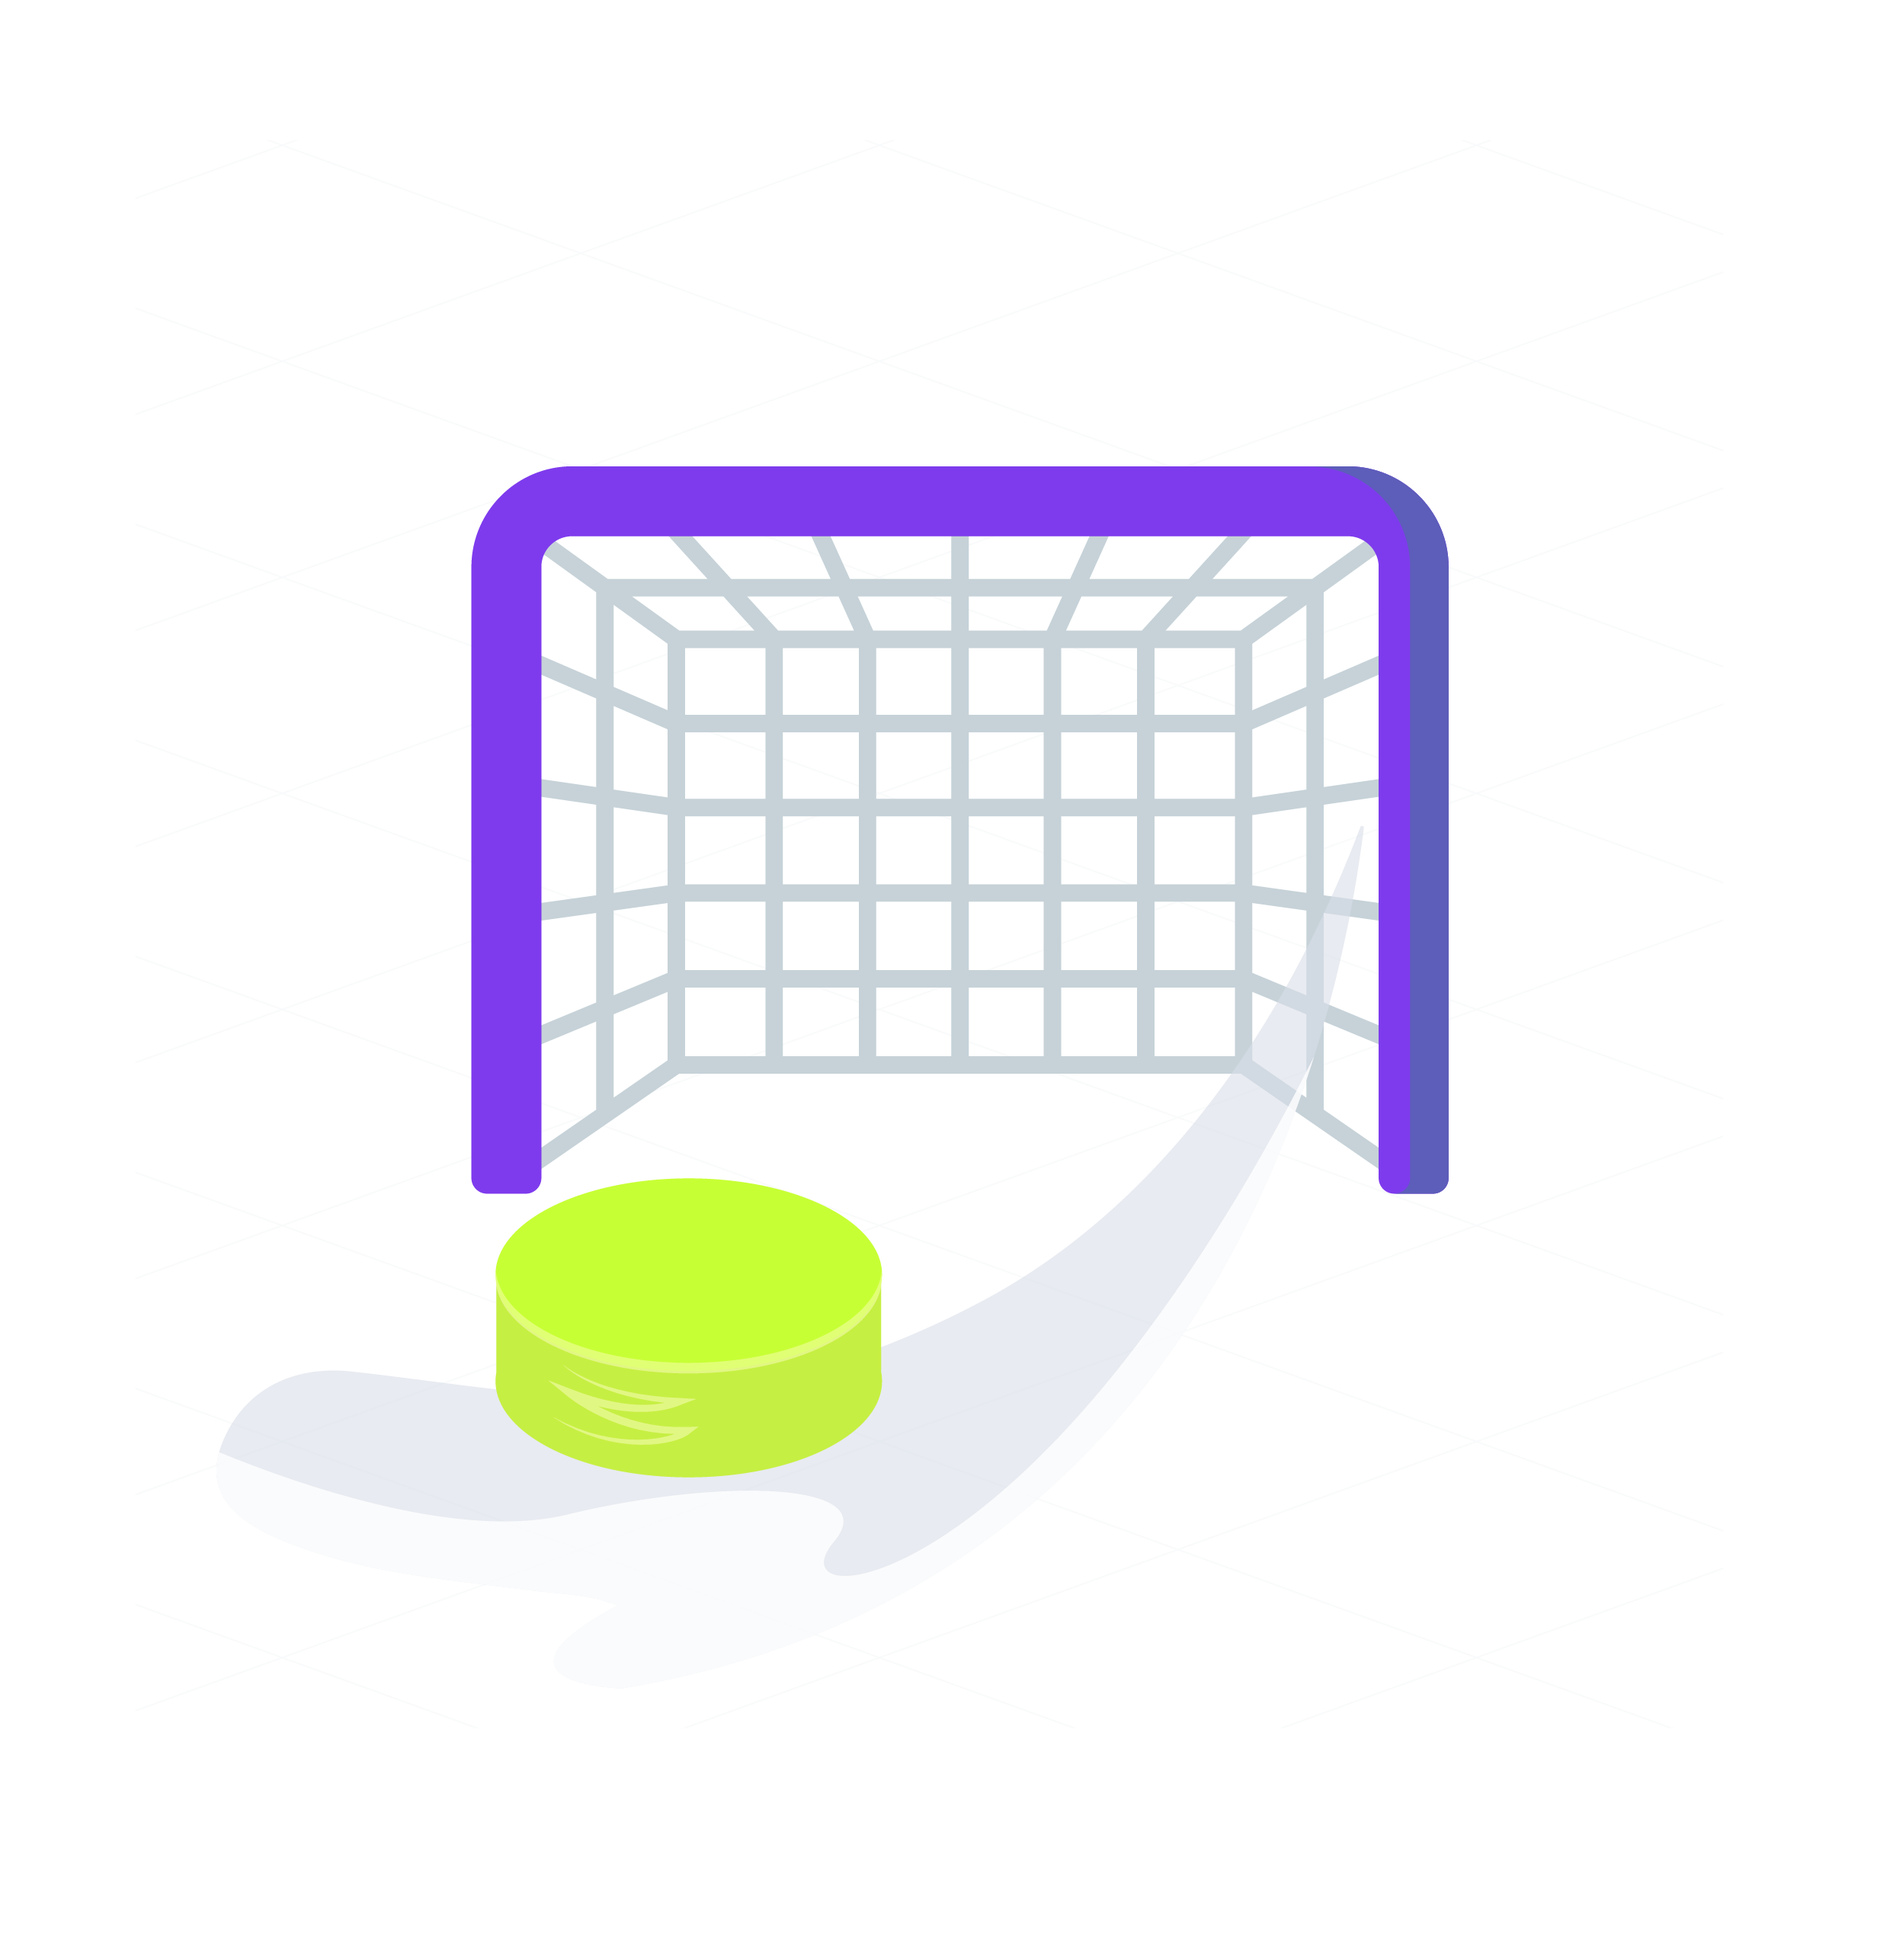
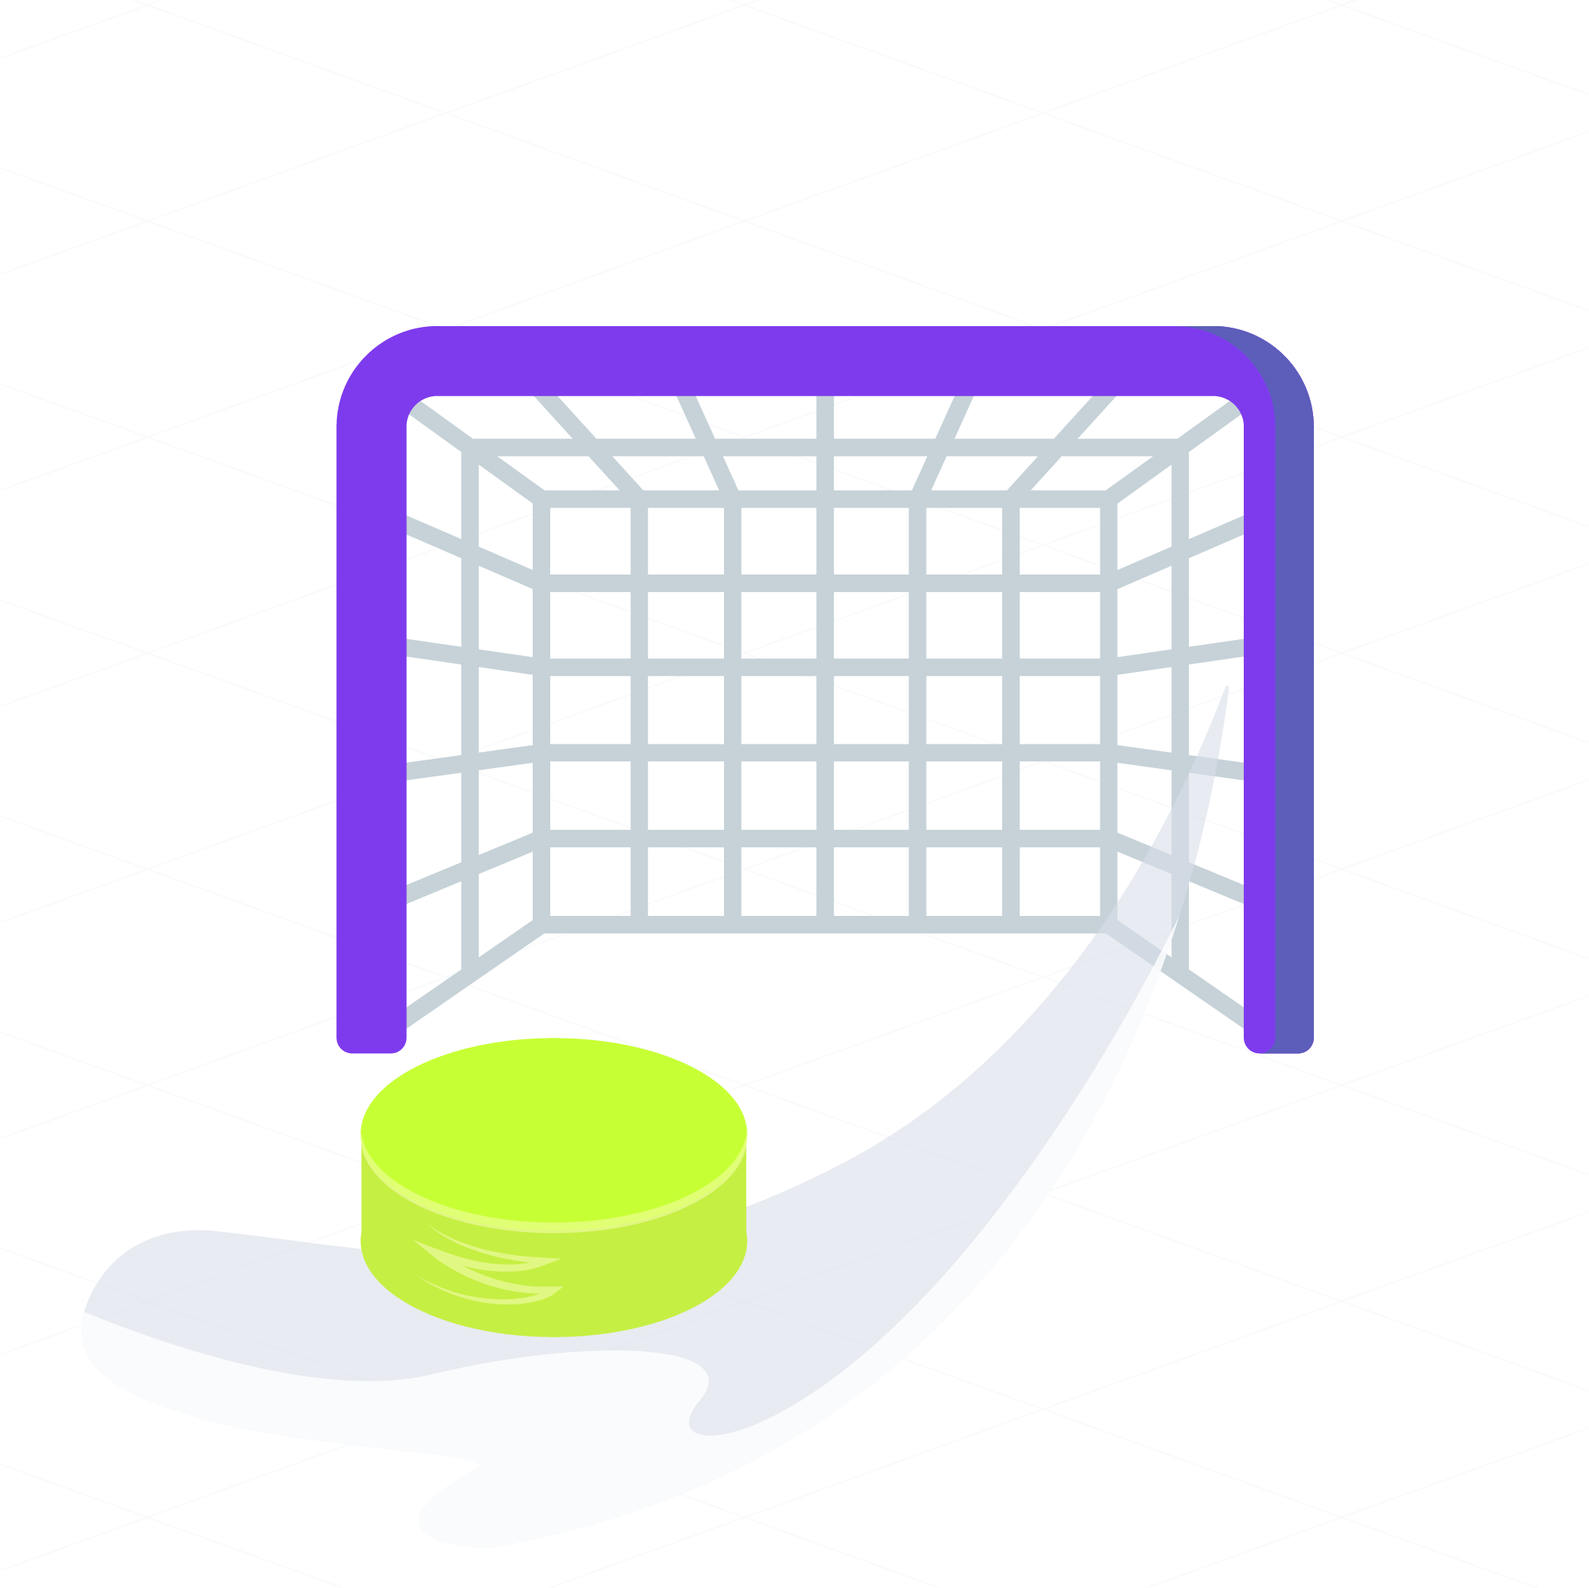
games page

Changed region(s): [[0.1871, 0.1871, 0.8417, 0.8421]]

diff --git a/style.css b/style.css
@@ -1,6 +1,6 @@
 @font-face {
   font-family: "BaiJamJuree";
-  src: url(/CyberMediaWebsite/Other/BaiJamjuree-Regular.ttf) format('truetype');
+  src: url(/Other/BaiJamjuree-Regular.ttf) format('truetype');
 
   font-weight: 400;
 
@@ -26,7 +26,7 @@ main {
   overflow-x: hidden;
   height: 100%;
 
-  scroll-behavior: smooth !important;
+  /* scroll-behavior: smooth !important; */
 
   background-color: #161616;
 }
@@ -48,6 +48,8 @@ header {
   margin-top: 2rem;
   margin-left: 2rem;
 }
+
+/* Hero Page */
 
 .hero-section {
   display: flex;
@@ -113,6 +115,8 @@ header {
   background-color: #7D3BED;
 
   border-radius: 27.5px;
+
+  cursor: pointer;
 }
 
 
@@ -150,7 +154,7 @@ header {
 @media (max-width: 425px) {
   
   .header-logo {
-    width: 10rem;
+    width: 14rem;
     margin-top: 1.25rem;
     margin-left: 1.25rem;
   }
@@ -180,3 +184,122 @@ header {
     font-size: 1.25rem;
   }
 }
+
+/* Games Page */
+
+.games-section {
+  display: flex;
+  width: 100%;
+  height: 100%;
+  
+  justify-content: center;
+  align-items: center;
+  flex-wrap: wrap;
+
+  gap: 4rem;
+}
+
+.game-wrapper {
+  display: flex;
+  flex-direction: column;
+  gap: 2rem;
+
+  align-items: center;
+}
+
+.game-image {
+  width: 350px;
+  height: 350px;
+
+  background: linear-gradient(0deg,
+  rgba(125, 59, 237, 1) 0%,
+  rgba(125, 59, 237, .3) 50%,
+     rgba(0, 0, 0, 0) 100%);
+  border-radius: 3rem;
+}
+
+
+.game-title {
+  font-size: 2rem;
+  font-weight: 400;
+}
+
+
+/* Laptop */
+@media (max-width: 1024px) {
+  .games-section {
+    height: auto;
+
+    margin-top: 10rem;
+    margin-bottom: 2rem;
+
+    margin-right: 2rem;
+    margin-left: 2rem;
+
+    flex-direction:row;
+    justify-content: center;
+    align-items: center;
+    flex-wrap: wrap;
+
+    gap: 4rem;
+  }
+
+  .game-wrapper {
+    display: flex;
+    flex-direction: column;
+    gap: 2rem;
+
+    align-items: center;
+  }
+
+  .game-image {
+    width: 300px;
+    height: 300px;
+  }
+
+
+  .game-title {
+    font-size: 2rem;
+  }
+}
+
+
+/* MOBILE */
+@media (max-width: 460px) {
+  .games-section {
+    height: auto;
+
+    margin-top: 10rem;
+    margin-bottom: 2rem;
+
+    margin-right: 0rem;
+    margin-left: 0rem;
+
+    flex-direction: column;
+    justify-content: center;
+    align-items: center;
+
+    gap: 4rem;
+  }
+
+  .game-wrapper {
+    display: flex;
+    flex-direction: column;
+    gap: 2rem;
+
+    align-items: center;
+  }
+
+  .game-image {
+    width: 300px;
+    height: 300px;
+  }
+
+
+  .game-title {
+    font-size: 2rem;
+  }
+}
+
+
+

diff --git a/games.html b/games.html
@@ -18,22 +18,26 @@
     </header>
 
     <main class="main">
-      <section class="hero-section">
-        <div class="hero-video-wrapper">
-          <img class="hero-video" src="/Video/CybermediaLoop.gif" alt="" />
+      <section class="games-section">
+
+        <div class="game-wrapper">
+          <img class="game-image" src="/Pictures/PhishingImage.png">
+          <h2 class="game-title">Phishing</h2>
         </div>
 
-        <div class="hero-text-wrapper">
-          <div class="hero-text-heading-wrapper">
-            <h1 class="hero-text-heading">Think You're</h1>
-            <h1 class="hero-text-heading-colored">Cyber-Smart?</h1>
-          </div>
+        <div class="game-wrapper">
+          <img class="game-image" src="/Pictures/RealOrAIImage.png">
+          <h2 class="game-title">Real or AI</h2>
+        </div>
 
-          <div class="hero-text-subwrapper">
-            <p class="hero-text-body">Test Your Skills & Take the Challenge!</p>
-            <a href="/games.html"><button class="hero-text-button">Play Now</button></a>
-          </div>
+        <div class="game-wrapper">
+          <img class="game-image" src="/Pictures/CyberHockeyImage.png">
+          <h2 class="game-title">Cyber Hockey</h2>
+        </div>
 
+        <div class="game-wrapper">
+          <img class="game-image" src="/Pictures/InOrOutImage.png">
+          <h2 class="game-title">In or Out</h2>
         </div>
       </section>
     </main>
